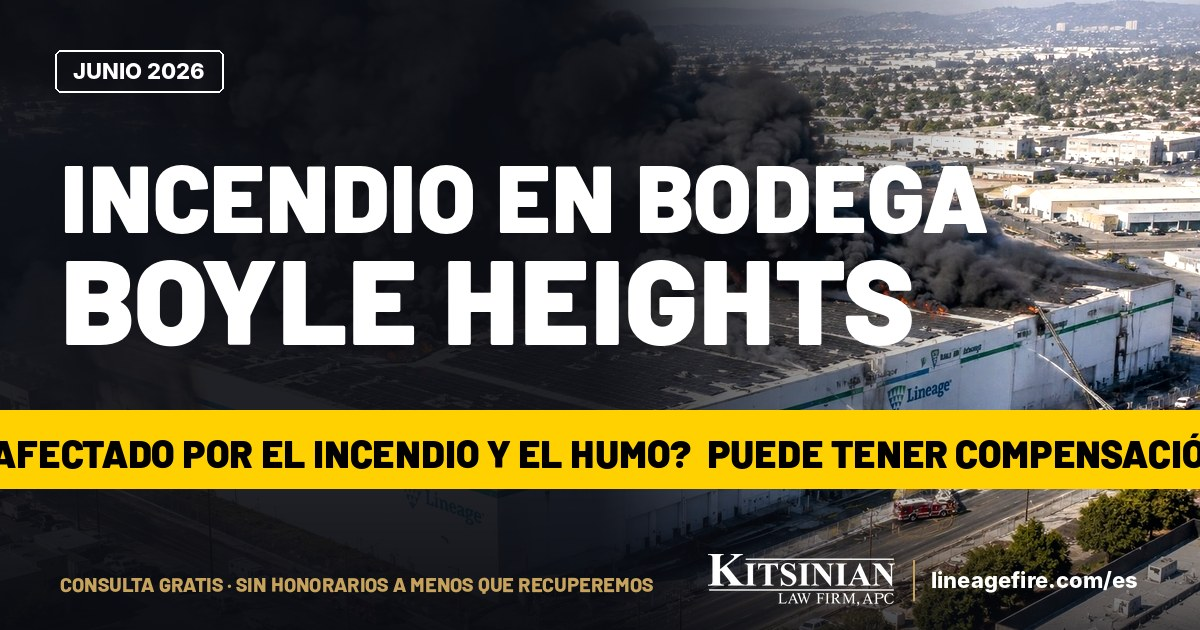
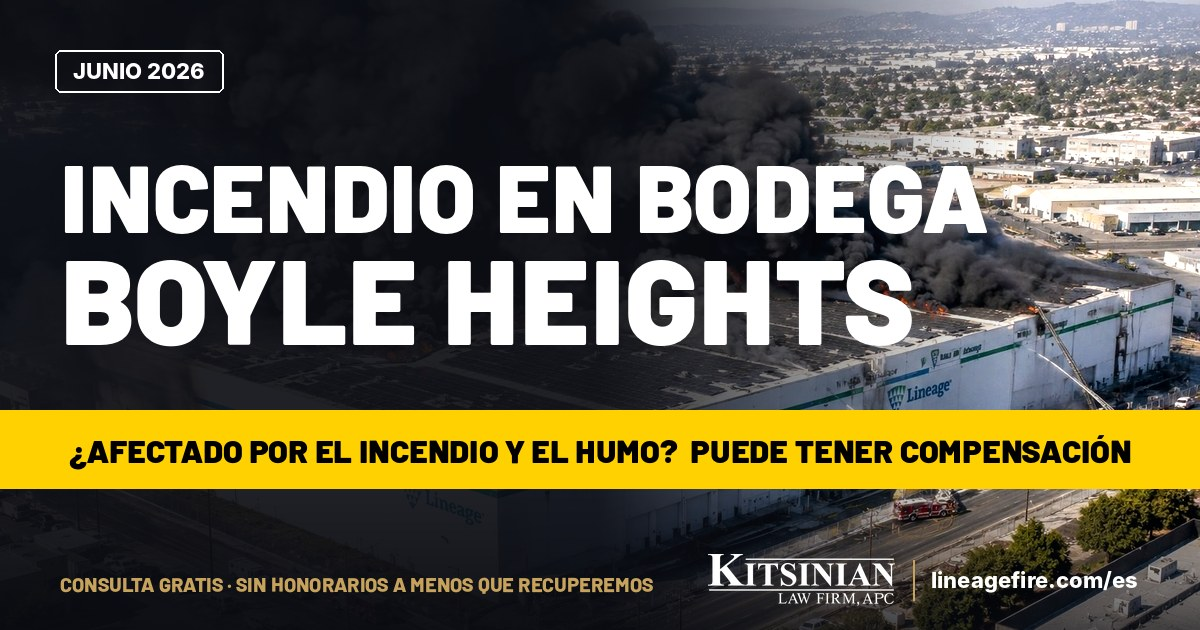
OG cards: auto-fit yellow-bar text with padding (fixes ES overflow + EN edge-touch)

Changed region(s): [[0.0, 0.6635, 1.0, 0.754]]

diff --git a/build_og_images.py b/build_og_images.py
@@ -143,7 +143,15 @@ def build_og(headline_lines, yellow_bar_text, trust_line, domain, output_filenam
     bar_h = 78
     bar_y = y_cursor + 30  # 30px breathing room below headline
     draw.rectangle([0, bar_y, W, bar_y + bar_h], fill=COLORS["yellow"])
-    bar_font = f(FONT_BARLOW_BLACK, 38)
+    # Auto-fit the bar text to the strip width with horizontal padding so it never
+    # touches the edges or overflows (the Spanish hook is longer than the English).
+    bar_pad_x = 56
+    bar_avail_w = W - 2 * bar_pad_x
+    bar_size = 38
+    bar_font = f(FONT_BARLOW_BLACK, bar_size)
+    while text_width(draw, yellow_bar_text, bar_font) > bar_avail_w and bar_size > 20:
+        bar_size -= 1
+        bar_font = f(FONT_BARLOW_BLACK, bar_size)
     # Nudge text up 3px — cap-centered all-caps reads bottom-heavy at default
     draw_cap_centered(draw, W // 2, bar_y + bar_h // 2 - 3, yellow_bar_text, bar_font, COLORS["black"])
 